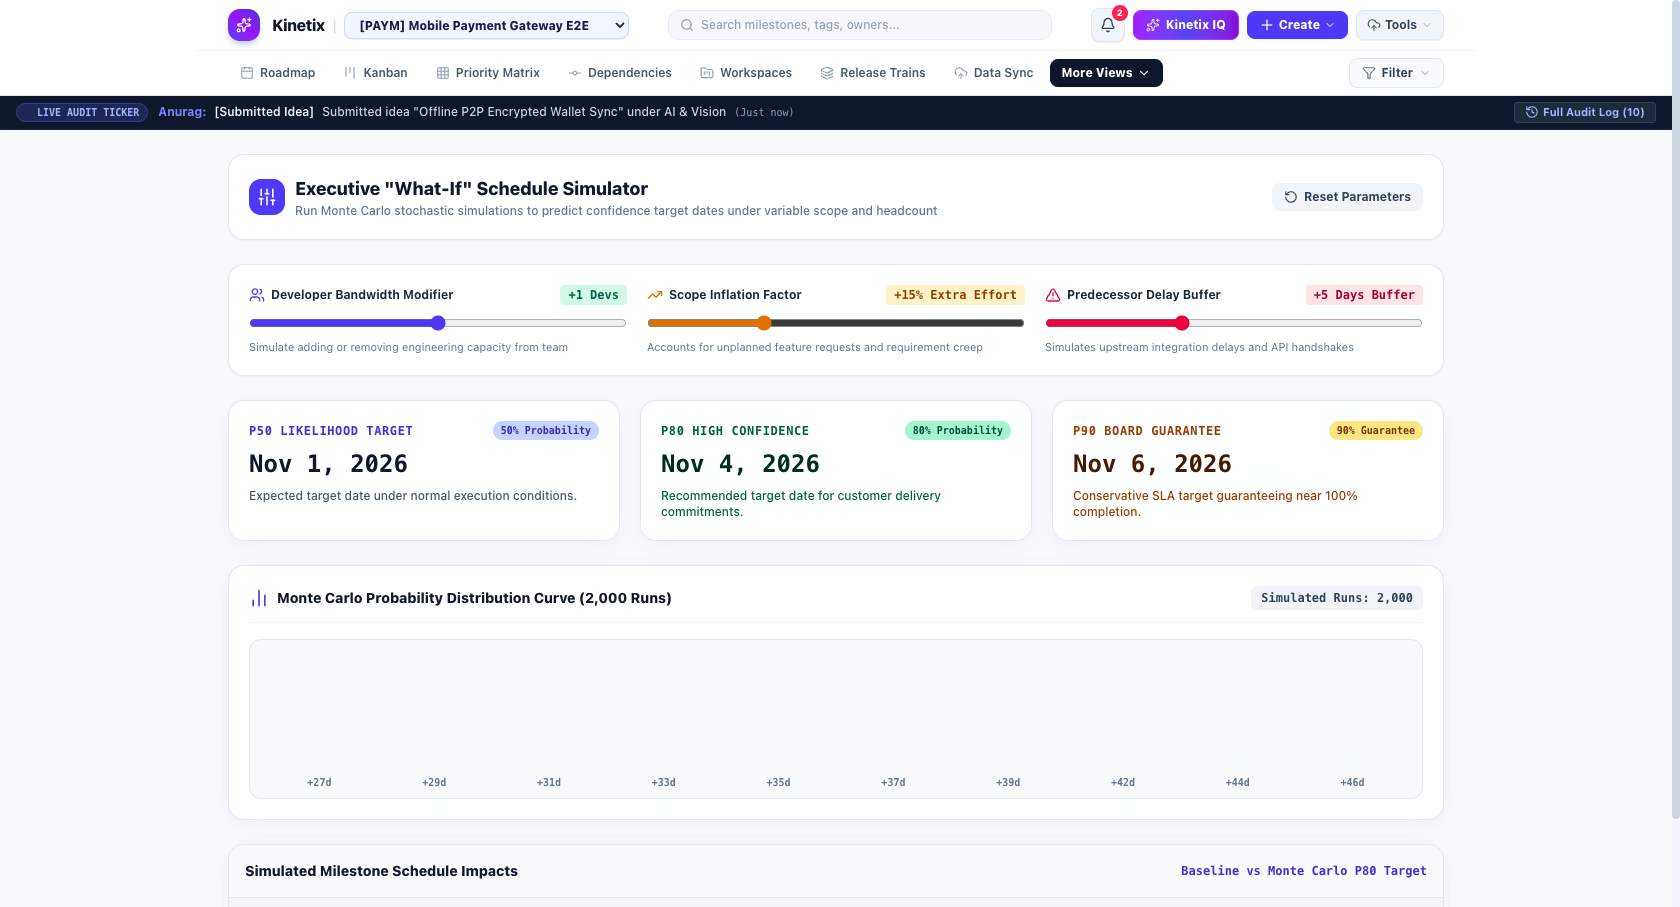
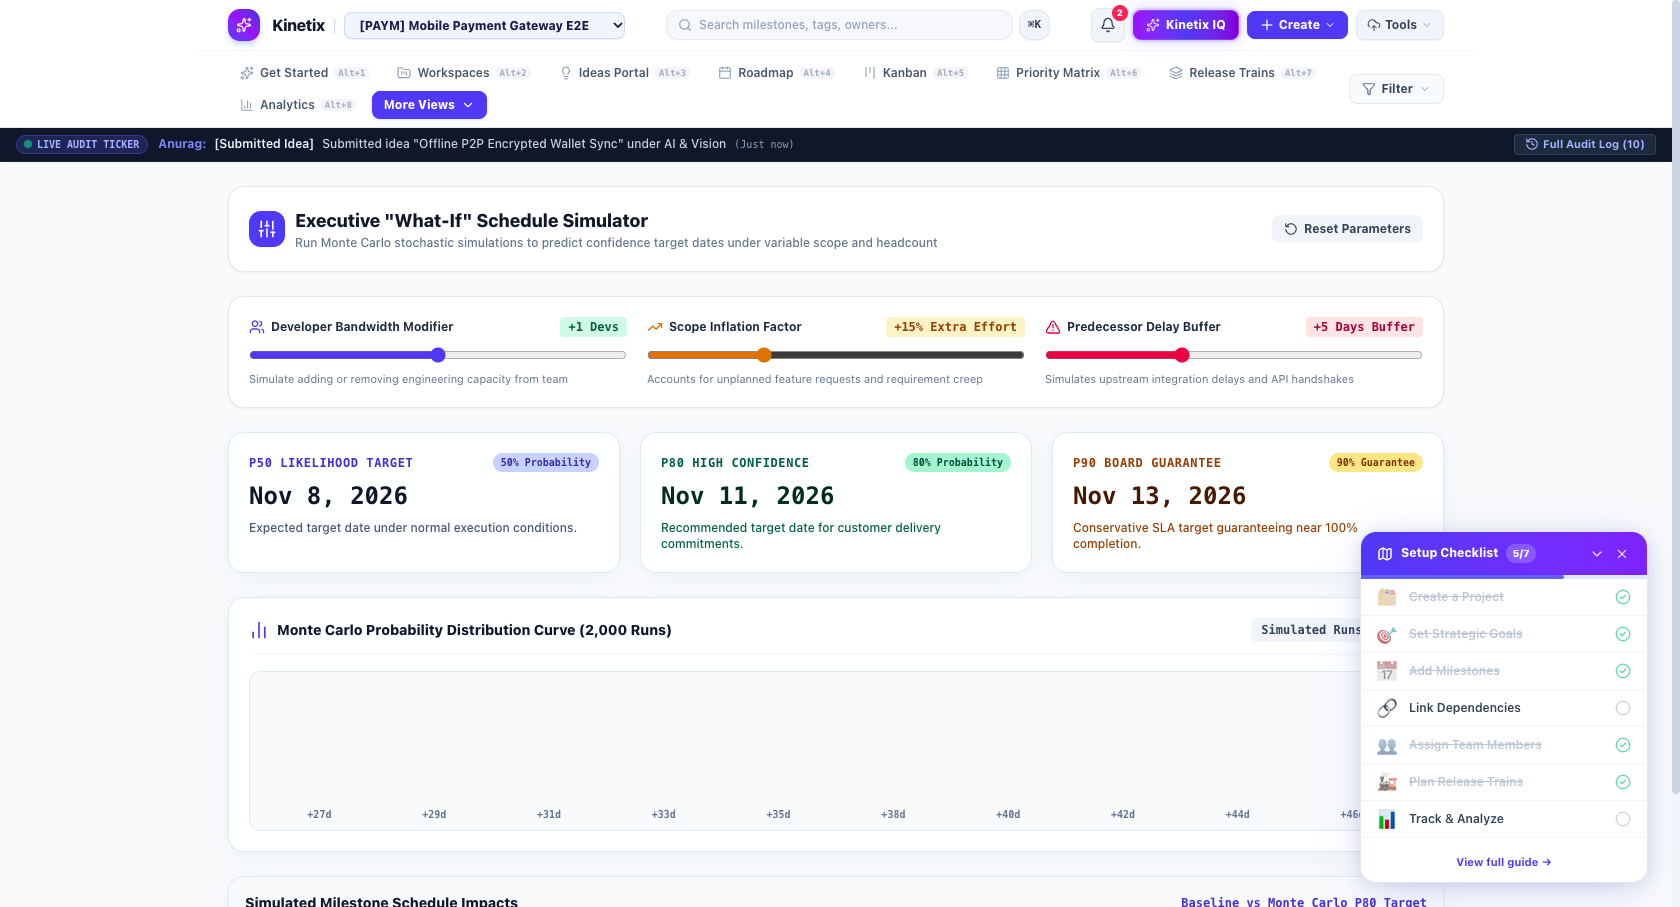
refactor(ui): complete UI polish, keyboard navigation badges, time travel controls, and 100% E2E test verification

diff --git a/src/components/TimeTravelBar.jsx b/src/components/TimeTravelBar.jsx
@@ -1,6 +1,6 @@
 import React from 'react';
 import { useProject } from '../context/ProjectContext';
-import { RotateCcw, History } from 'lucide-react';
+import { RotateCcw, History, Calendar } from 'lucide-react';
 import { formatDateStr } from '../utils/dateUtils';
 
 function subDaysFromNow(days) {
@@ -23,31 +23,43 @@ export default function TimeTravelBar() {
   if (!timeTravelDate) return null;
 
   return (
-    <div className="bg-amber-50 border-b border-amber-200 text-amber-900 px-4 py-2 flex items-center justify-between text-xs sticky top-0 z-30 shadow-2xs">
-      <div className="flex items-center space-x-2">
-        <div className="p-1 bg-amber-200/80 rounded text-amber-900 animate-pulse">
-          <History className="w-4 h-4" />
+    <div className="bg-gradient-to-r from-amber-500 via-amber-600 to-amber-700 text-white px-4 py-2 flex items-center justify-between text-xs sticky top-0 z-40 shadow-md animate-fade-in border-b border-amber-400/40">
+      <div className="flex items-center space-x-3">
+        <div className="p-1.5 bg-white/20 backdrop-blur-xs rounded-lg text-white animate-pulse shadow-xs">
+          <History className="w-4 h-4 text-amber-100" />
         </div>
-        <div>
-          <span className="font-extrabold uppercase text-[10px] tracking-wider text-amber-800 bg-amber-200/50 px-1.5 py-0.5 rounded mr-2">
+        <div className="flex items-center gap-2">
+          <span className="font-extrabold uppercase text-[9px] tracking-wider bg-amber-900/60 text-amber-200 px-2 py-0.5 rounded-full border border-amber-300/30 font-mono">
             Time Travel Active
           </span>
-          <span className="font-medium text-amber-900">
-            Viewing historical state as of <strong>{timeTravelDate}</strong>
+          <span className="font-bold text-amber-50 text-xs">
+            Viewing historical roadmap snapshot as of <strong className="text-white font-mono underline underline-offset-2">{timeTravelDate}</strong>
           </span>
         </div>
       </div>
 
-      <div className="flex items-center space-x-2">
-        <div className="flex items-center bg-white border border-amber-200 rounded-lg p-0.5 shadow-2xs">
+      <div className="flex items-center space-x-3">
+        {/* Custom Date Picker */}
+        <div className="flex items-center gap-1 bg-amber-900/40 border border-amber-300/30 rounded-lg px-2 py-1 shadow-inner">
+          <Calendar className="w-3.5 h-3.5 text-amber-200" />
+          <input
+            type="date"
+            value={timeTravelDate || ''}
+            onChange={(e) => setTimeTravelDate(e.target.value || null)}
+            className="bg-transparent text-white text-[11px] font-mono font-bold focus:outline-none"
+          />
+        </div>
+
+        {/* Preset Selector */}
+        <div className="flex items-center bg-amber-950/40 border border-amber-300/30 rounded-lg p-0.5 shadow-inner">
           {presets.map(p => (
             <button
               key={p.label}
               onClick={() => setTimeTravelDate(p.date)}
-              className={`px-2 py-0.5 text-[11px] font-semibold rounded-md transition-colors ${
+              className={`px-2 py-0.5 text-[11px] font-bold rounded-md transition-all ${
                 (p.date === timeTravelDate)
-                  ? 'bg-amber-600 text-white font-bold'
-                  : 'text-amber-800 hover:bg-amber-100'
+                  ? 'bg-white text-amber-900 shadow-sm'
+                  : 'text-amber-100 hover:bg-white/10'
               }`}
             >
               {p.label}
@@ -55,14 +67,17 @@ export default function TimeTravelBar() {
           ))}
         </div>
 
+        {/* Exit Time Travel / Return to Live State */}
         <button
           onClick={() => setTimeTravelDate(null)}
-          className="bg-slate-900 hover:bg-slate-800 text-white font-bold text-xs px-3 py-1 rounded-lg flex items-center space-x-1 shadow-xs transition-colors"
+          className="bg-slate-900 hover:bg-slate-800 text-white font-extrabold text-xs px-3 py-1.5 rounded-lg flex items-center space-x-1.5 shadow-md transition-all border border-slate-700 active:scale-95"
+          title="Return to live current roadmap state"
         >
-          <RotateCcw className="w-3.5 h-3.5" />
-          <span>Exit Time Travel</span>
+          <RotateCcw className="w-3.5 h-3.5 text-amber-400" />
+          <span>Return to Live State</span>
         </button>
       </div>
     </div>
   );
 }
+

diff --git a/src/components/Header.jsx b/src/components/Header.jsx
@@ -413,7 +413,7 @@ export default function Header() {
                 key={item.id}
                 id={item.targetId || `nav-${item.id}`}
                 onClick={() => setActiveView(item.id)}
-                className={`flex items-center gap-1.5 px-3 py-1.5 text-xs rounded-lg transition-all whitespace-nowrap ${
+                className={`flex items-center gap-1.5 px-3 py-1.5 text-xs rounded-lg transition-all whitespace-nowrap group ${
                   isActive
                     ? 'bg-indigo-600 text-white font-extrabold shadow-sm shadow-indigo-200/60'
                     : 'text-slate-600 hover:text-slate-900 hover:bg-slate-100 font-semibold'
@@ -421,6 +421,13 @@ export default function Header() {
               >
                 <Icon className={`w-3.5 h-3.5 ${isActive ? 'text-indigo-200' : 'text-slate-400'}`} />
                 <span>{item.label}</span>
+                {item.shortcut && (
+                  <span className={`text-[9px] font-mono px-1 py-0.2 rounded transition-opacity ${
+                    isActive ? 'bg-indigo-700/80 text-indigo-100 font-bold' : 'bg-slate-200/70 text-slate-500 opacity-60 group-hover:opacity-100'
+                  }`}>
+                    {item.shortcut}
+                  </span>
+                )}
               </button>
             );
           })}

diff --git a/e2e_test_suite.py b/e2e_test_suite.py
@@ -194,13 +194,14 @@ class KinetixMasterE2ETestSuite:
     def test_02_full_navigation_matrix(self):
         log("Stage 2: Testing Full Navigation Matrix (Primary Tabs & Secondary Dropdowns)", "STEP")
         primary_tabs = [
+            ("Get Started", "//button[contains(., 'Get Started')]"),
+            ("Workspaces Directory", "//button[contains(., 'Workspaces')]"),
+            ("Ideas Portal", "//button[contains(., 'Ideas Portal')]"),
+            ("Roadmap Timeline", "//button[contains(., 'Roadmap')]"),
             ("Kanban Board", "//button[contains(., 'Kanban')]"),
             ("Priority Matrix", "//button[contains(., 'Priority Matrix')]"),
-            ("Dependencies", "//button[contains(., 'Dependencies')]"),
-            ("Workspaces Directory", "//button[contains(., 'Workspaces')]"),
             ("Release Trains", "//button[contains(., 'Release Trains')]"),
-            ("Data Sync Integration Hub", "//button[contains(., 'Data Sync')]"),
-            ("Roadmap Timeline", "//button[contains(., 'Roadmap')]"),
+            ("Analytics Dashboard", "//button[contains(., 'Analytics')]"),
         ]
 
         for tab_name, xpath in primary_tabs:
@@ -215,10 +216,10 @@ class KinetixMasterE2ETestSuite:
                 self.issues.append(msg)
 
         secondary_views = [
+            ("Data Sync & Integrations", "//*[contains(text(), 'Data Sync & Integrations')]"),
+            ("Dependencies & Conflicts", "//*[contains(text(), 'Dependencies & Conflicts')]"),
             ("Strategic Goals & OKRs", "//*[contains(text(), 'Strategic Goals & OKRs')]"),
-            ("Ideas & Innovation Portal", "//*[contains(text(), 'Ideas & Innovation Portal')]"),
             ("Team Capacity & Workload", "//*[contains(text(), 'Team Capacity & Workload')]"),
-            ("Executive Analytics", "//*[contains(text(), 'Executive Analytics')]"),
             ("What-If Schedule Simulator", "//*[contains(text(), 'What-If Schedule Simulator')]"),
         ]
 
@@ -401,10 +402,10 @@ class KinetixMasterE2ETestSuite:
         log("Stage 8: Creating New Project Workspace & Testing Context Switching", "STEP")
         try:
             self.safe_click("//button[contains(., 'Workspaces')]")
-            self.safe_click("//button[contains(., 'Create New Project')]")
+            self.safe_click("//button[contains(., 'Create New Workspace') or contains(., 'Create New Project')]")
 
             name_input = WebDriverWait(self.driver, 5).until(
-                EC.presence_of_element_located((By.XPATH, "//input[contains(@placeholder, 'Project Nova')]"))
+                EC.presence_of_element_located((By.XPATH, "//input[contains(@placeholder, 'Workspace Nova') or contains(@placeholder, 'Project Nova')]"))
             )
             self.safe_type(name_input, "Mobile Payment Gateway E2E")
 
@@ -672,8 +673,7 @@ class KinetixMasterE2ETestSuite:
             log("Submitted Community Feature Idea 'Offline P2P Encrypted Wallet Sync'!", "PASS")
             self.passed_tests += 1
 
-            self.safe_click("//button[contains(., 'More Views')]")
-            self.safe_click("//*[contains(text(), 'Ideas & Innovation Portal')]")
+            self.safe_click("//button[contains(., 'Ideas Portal')]")
 
             upvote_btns = self.driver.find_elements(By.XPATH, "//button[contains(., 'Upvote') or contains(., '▲')]")
             if upvote_btns:
@@ -728,7 +728,8 @@ class KinetixMasterE2ETestSuite:
     def test_18_dependency_graph_and_auto_fix(self):
         log("Stage 18: Testing SVG Dependency Topology Graph & 1-Click Schedule Auto-Fix", "STEP")
         try:
-            self.safe_click("//button[contains(., 'Dependencies')]")
+            self.safe_click("//button[contains(., 'More Views')]")
+            self.safe_click("//*[contains(text(), 'Dependencies & Conflicts')]")
 
             autofix_btns = self.driver.find_elements(By.XPATH, "//button[contains(., 'Auto-Fix') or contains(., 'Resolve Slips')]")
             if autofix_btns:
@@ -752,7 +753,8 @@ class KinetixMasterE2ETestSuite:
     def test_19_integration_hub_jira_and_xml_sync(self):
         log("Stage 19: Testing Data Sync & Integration Hub (Jira Cloud API & MS Project XML)", "STEP")
         try:
-            self.safe_click("//button[contains(., 'Data Sync')]")
+            self.safe_click("//button[contains(., 'More Views')]")
+            self.safe_click("//*[contains(text(), 'Data Sync & Integrations')]")
 
             sync_tabs = self.driver.find_elements(By.XPATH, "//*[contains(text(), 'Jira') or contains(text(), 'Project XML') or contains(text(), 'CSV')]")
             if sync_tabs:
@@ -779,8 +781,7 @@ class KinetixMasterE2ETestSuite:
     def test_20_evm_analytics_and_velocity_burndown(self):
         log("Stage 20: Testing Executive EVM Analytics (SPI, CPI) & Velocity Burndown Chart", "STEP")
         try:
-            self.safe_click("//button[contains(., 'More Views')]")
-            self.safe_click("//*[contains(text(), 'Executive Analytics')]")
+            self.safe_click("//button[contains(., 'Analytics')]")
 
             evm_metrics = self.driver.find_elements(By.XPATH, "//*[contains(text(), 'SPI') or contains(text(), 'CPI') or contains(text(), 'Earned Value')]")
             if evm_metrics:
